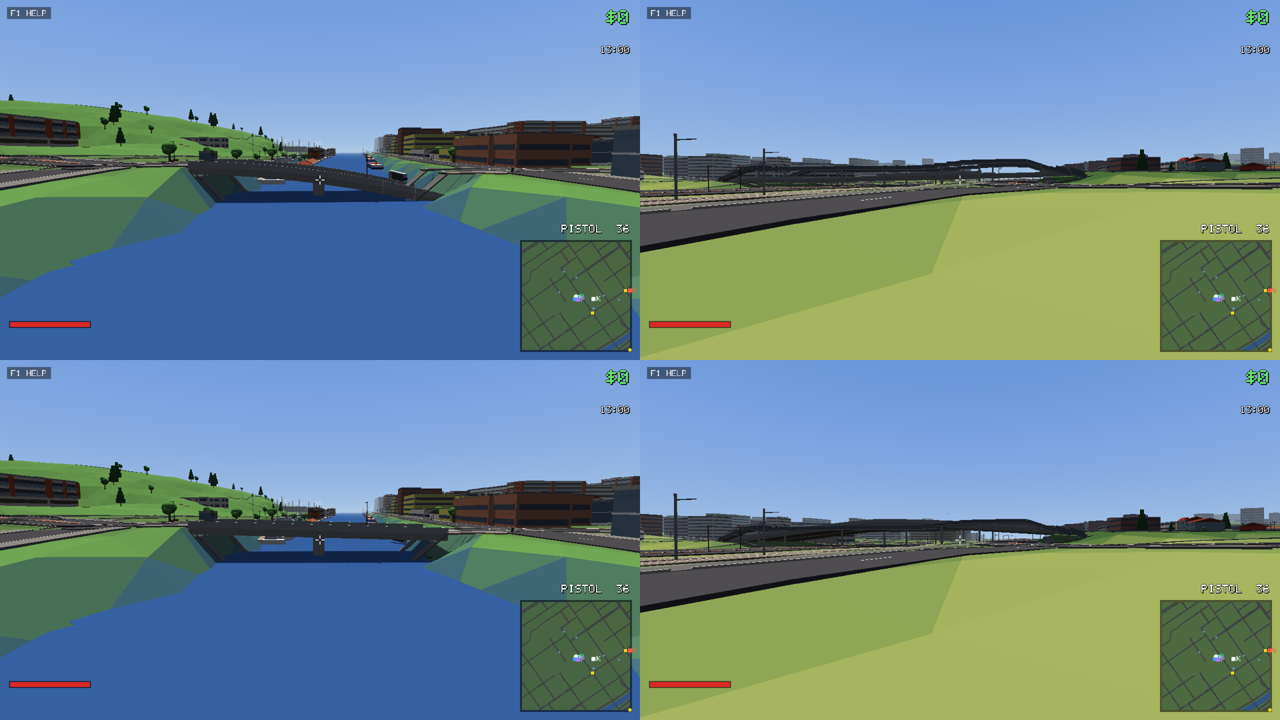
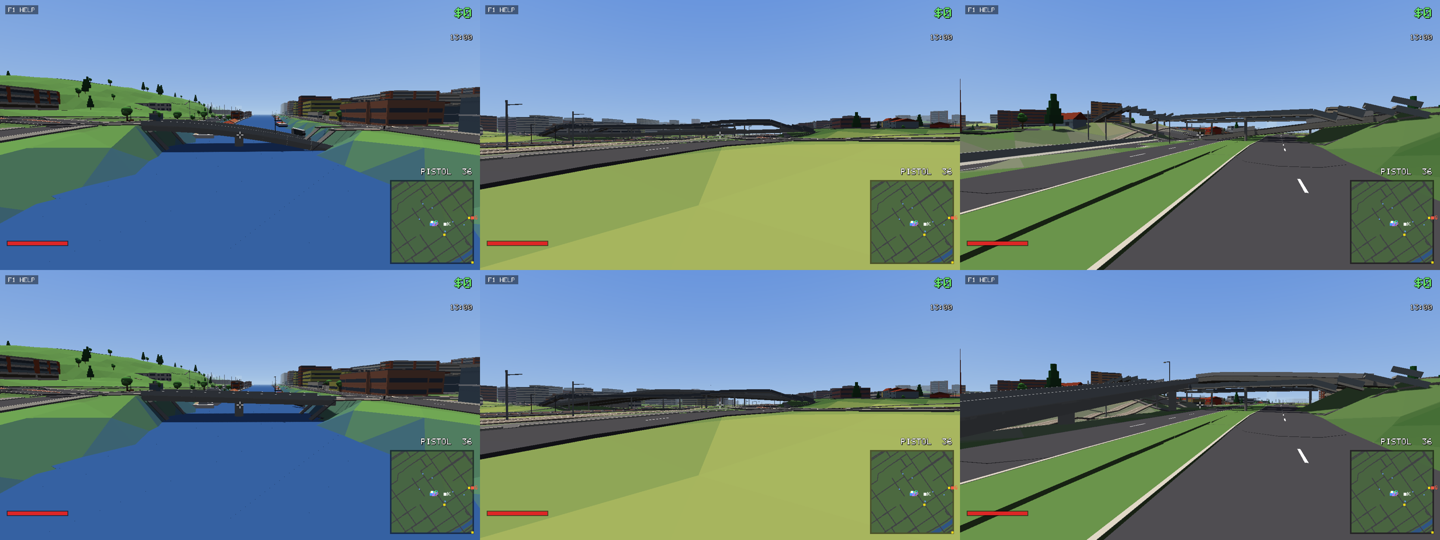
Bridges split in the middle are one deck: Hämeensilta and Kuninkojantie no longer dip to the road they cross
The map data often splits a bridge at a node in its middle (where a ramp
leaves it, or for no reason), and each piece took that node's height
from the ground under it, so the bridge came down in a V onto the road
it crosses: Hämeensilta to Helsinginkatu (-0.2 m room), Kuninkojantie to
Turun kehätie. Pieces joined at junctions where only decks meet now
make one deck, on the straightest way through (the same street first),
lifted like any other; a ramp leaving it there starts at its height.

Not the elevation model's doing, as I first thought: the importer is
unchanged (re-importing Turku from the same cache gives the same bytes).

Bridges a bus can't pass under: Turku 5 -> 1, Raisio 9 -> 1 (the
limits in tools/test_bridges.py). Hämeensilta now has 6.8-7.0 m over
Helsinginkatu.

autoplay's "pedestrians spawned" checked the count at one instant; at
the stunt park the crowd thins (34 -> 30 over two seconds) and which
pedestrian is recycled depends on entity ids, so five more entities
anywhere on the map (old code plus five empty spawns) gave 34 < 35
too. It now checks the most there have been (40 with old and new code).

diff --git a/tools/test_bridges.py b/tools/test_bridges.py
@@ -11,13 +11,12 @@ import unittest
 ROOT = Path(__file__).resolve().parent.parent
 BINARY = ROOT / "target" / "release" / ("auto.exe" if os.name == "nt" else "auto")
 
-# Bridges a bus still can't pass under, per map. Turku: Aninkaistensilta's
-# end over Virusmäenramppi (the ramp passes ~17 m from where the deck lands,
-# too close to climb over it), and Hämeensilta's two decks; Raisio:
-# Kuninkojantie's two. At those three the road below is graded up into the
-# deck: the elevation model fills in the ground under a bridge. Lower these
-# as they're fixed; never raise them.
-BLOCKED_MAX = {"turku": 3, "raisio": 2}
+# Bridges a bus still can't pass under (at one spot each), per map: Turku's
+# Aninkaistensilta, whose south end lands ~17 m past Virusmäenramppi, too
+# close to climb over it; Raisio's Raisionlahdentie / Naantalintie over
+# Upalingontie, 44 m end to end, too short to. (Before: Turku 5, Raisio 9.)
+# Lower these as they're fixed; never raise them.
+BLOCKED_MAX = {"turku": 1, "raisio": 1}
 STEP_MAX = 1.0  # meters between a deck's end and the street it meets
 
 
